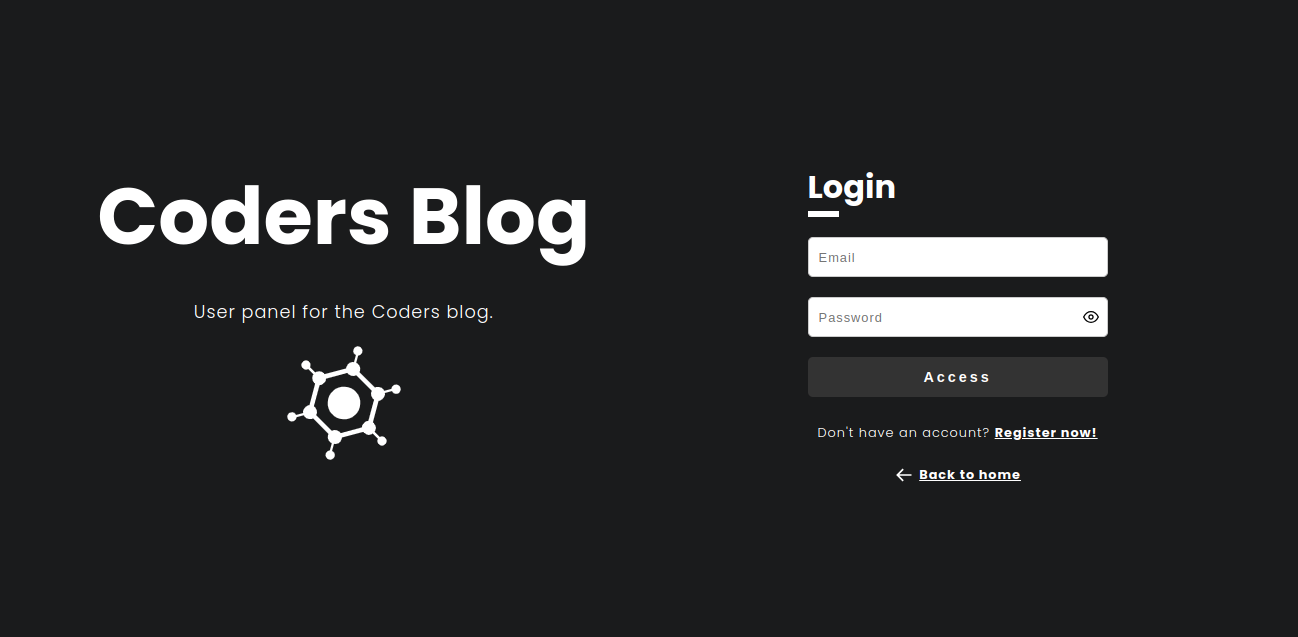
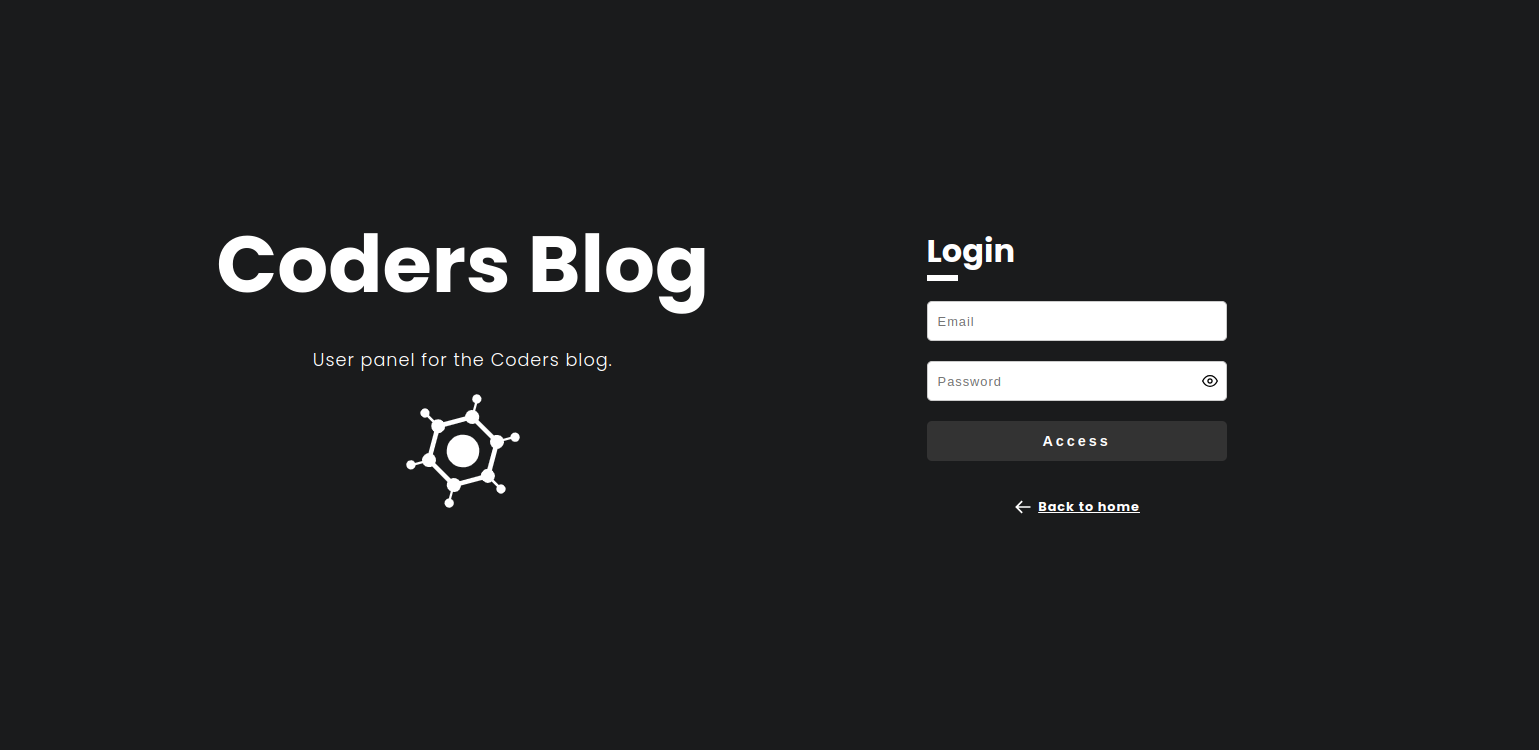
update README

diff --git a/app/frontend/src/pages/Login/LoginPage.tsx b/app/frontend/src/pages/Login/LoginPage.tsx
@@ -58,10 +58,6 @@ function LoginPage() {
           </div>
           <button type="submit">Access</button>
           <span className="register">
-            Don&apos;t have an account?
-            {' '}
-            <Link to="/register">Register now!</Link>
-            <br />
             <div className="back-icon">
               <BiArrowBack size={ 20 } />
               <Link to="/"> Back to home</Link>

diff --git a/README.md b/README.md
@@ -26,7 +26,7 @@
 <br />
 
 <p align="center">
-  <img width="700" src="screenshots/home.png">
+  <img width="1000" src="screenshots/home.png">
 </p>
 
 <br />
@@ -117,27 +117,21 @@ Use of categories to classify posts, establishing a relationship between posts a
 
 <br />
 
+### ▶ Single Post Page
+
+<img width="800" src="screenshots/singlePost.png">
+
+<br />
+
 ### ▶ Login Page
 
 <img width="800" src="screenshots/login.png">
 
 <br />
 
-### ▶ Register Page
-
-<img width="800" src="screenshots/register.png">
-
-<br />
-
 ### ▶ Dashboard Page
 
 <img width="800" src="screenshots/dashboard.png">
-
-<br />
-
-### ▶ Single Post Page
-
-<img width="800" src="screenshots/singlePost.png">
 
 <br />
 
@@ -155,45 +149,8 @@ Use of categories to classify posts, establishing a relationship between posts a
 
 <br />
 
-### ▶ User Posts Page
-
-<img width="800" src="screenshots/myPosts.png">
-
-<br />
-
 ### ▶ Profile Page
 
 <img width="800" src="screenshots/profile.png">
-
-<br />
-
-## ➡ ScreenShots - Version Mobile
-
-<br />
-
-### ▶ Home Page
-
-<img width="400" src="screenshots/homeMobile.png">
-
-<br />
-
-### ▶ Login Page
-
-<img width="400" src="screenshots/loginMobile.png">
-
-<br />
-
-### ▶ Register Page
-
-<img width="400" src="screenshots/registerMobile.png">
-
-<br />
-
-### ▶ Dashboard Page
-
-<img width="400" src="screenshots/dashboardMobile.png">
-
-
-
 
 
